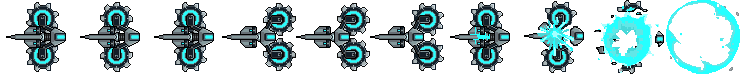
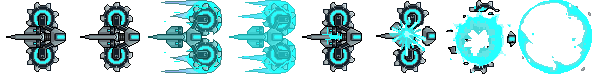
New player animations... again. :p

diff --git a/NanoNaut/scripts/player.js b/NanoNaut/scripts/player.js
@@ -25,9 +25,9 @@ var PLAYER = function(game) {
     this.dashAnim.animations.add("DASH", [0, 1, 2], 4);
     
     // Player Animations!!
-    this.player.animations.add("IDLE", [0, 1, 2], 4);
-    this.player.animations.add("DASH", [3, 4, 5], 4);
-    this.player.animations.add("KILL", [6, 7, 8, 9], 4);
+    this.player.animations.add("IDLE", [0, 1], 4);
+    this.player.animations.add("DASH", [2, 3], 4);
+    this.player.animations.add("KILL", [4, 5, 6, 7], 4);
     this.player.animations.play("IDLE", null, true);
     this.dashing = false;
     this.dying = false;

diff --git a/NanoNaut/scripts/assets.js b/NanoNaut/scripts/assets.js
@@ -5,7 +5,7 @@ var ASSETS = function(game) {
     this.game = game;
 
     this.load_assets = function() {
-        this.game.load.spritesheet("SHIP", "assets/player/ship.png", 74, 74, 10);
+        this.game.load.spritesheet("SHIP", "assets/player/ship.png", 74, 74, 8);
         this.game.load.spritesheet("DASH", "assets/player/bubbles.png", 99, 68, 4);
         
         this.game.load.spritesheet("VIRUS_1",  "assets/enemies/virus-1.png", 64, 62, 10);
